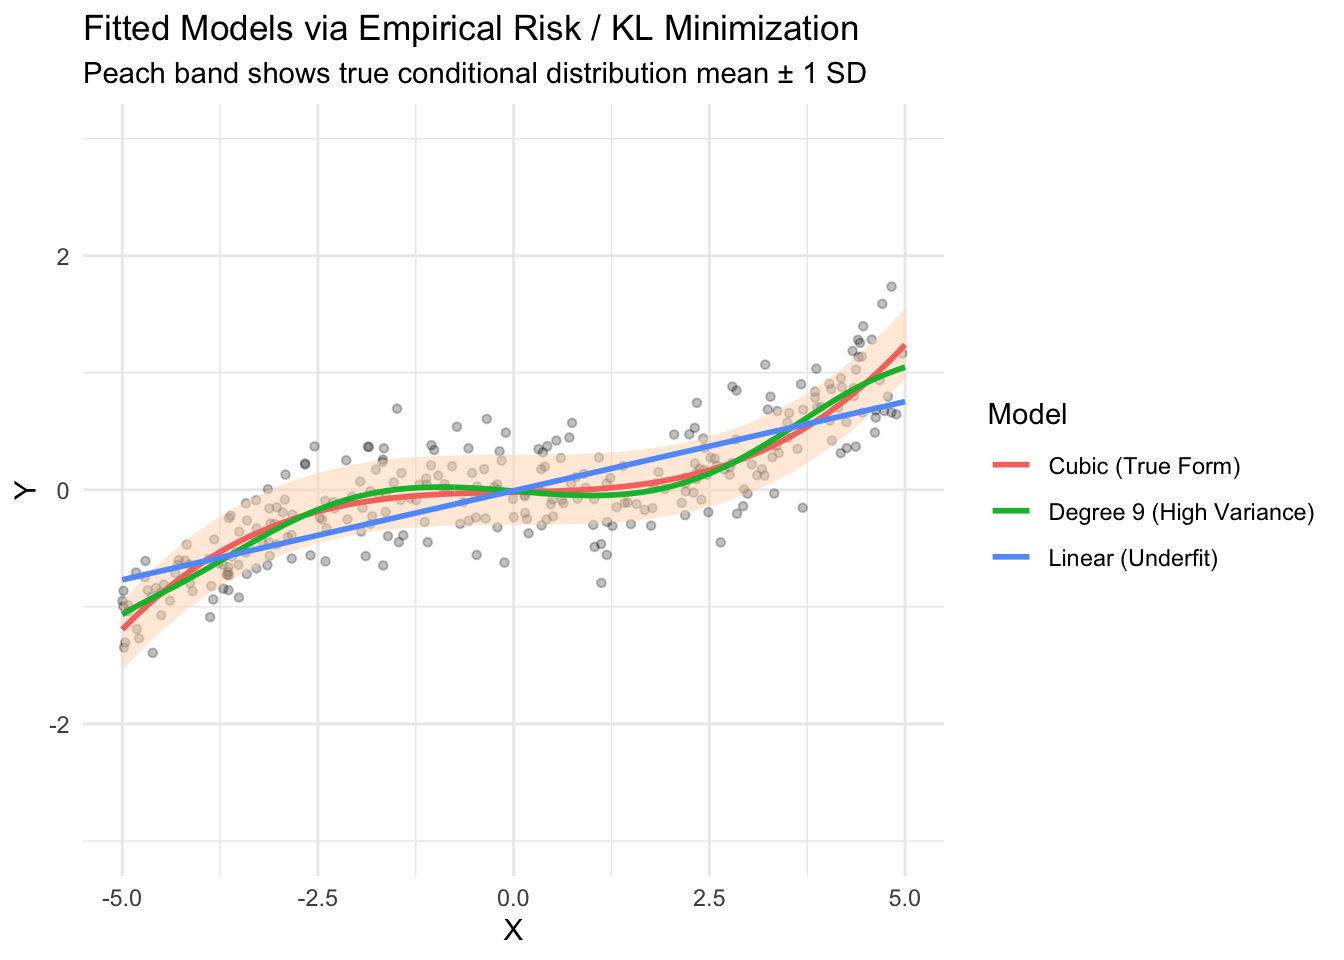
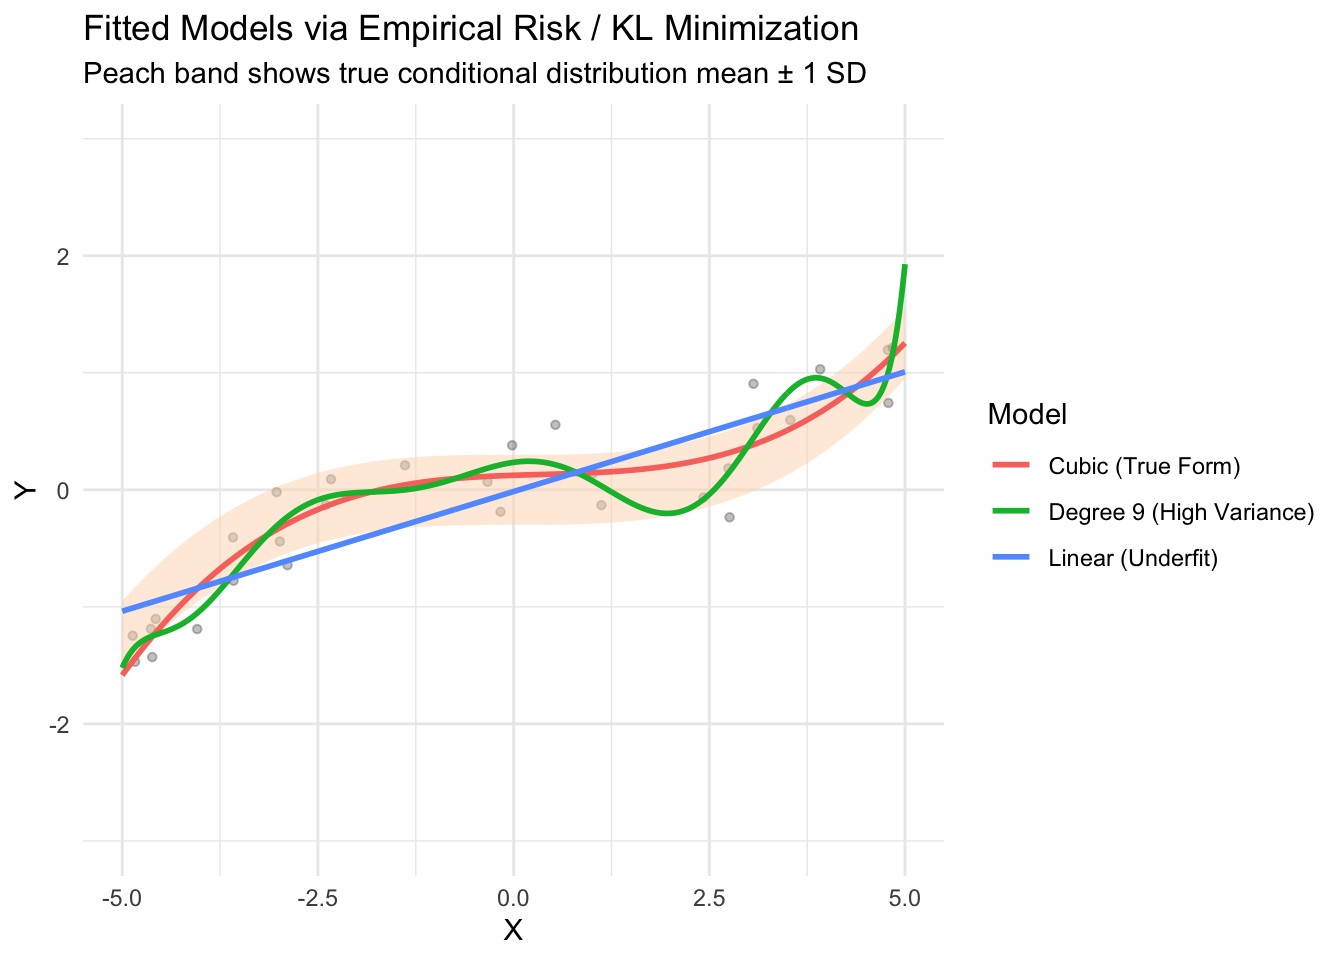
Add sources

Changed region(s): [[0.0625, 0.2812, 0.6875, 0.7188]]

diff --git a/min_dkl_nn.html b/min_dkl_nn.html
@@ -137,12 +137,15 @@ window.Quarto = {
 <div class="code-copy-outer-scaffold"><div class="sourceCode cell-code" id="cb1"><pre class="sourceCode r code-with-copy"><code class="sourceCode r"><span id="cb1-1"><a href="#cb1-1" aria-hidden="true" tabindex="-1"></a><span class="fu">library</span>(tidyverse)</span>
 <span id="cb1-2"><a href="#cb1-2" aria-hidden="true" tabindex="-1"></a><span class="fu">library</span>(ggformula)</span>
 <span id="cb1-3"><a href="#cb1-3" aria-hidden="true" tabindex="-1"></a></span>
-<span id="cb1-4"><a href="#cb1-4" aria-hidden="true" tabindex="-1"></a><span class="fu">set.seed</span>(<span class="dv">42</span>)</span></code></pre></div><button title="Copy to Clipboard" class="code-copy-button"><i class="bi"></i></button></div>
+<span id="cb1-4"><a href="#cb1-4" aria-hidden="true" tabindex="-1"></a><span class="fu">set.seed</span>(<span class="dv">666</span>)</span></code></pre></div><button title="Copy to Clipboard" class="code-copy-button"><i class="bi"></i></button></div>
 </div>
 <section id="sources" class="level2">
 <h2 class="anchored" data-anchor-id="sources">Sources</h2>
-<p>https://youtu.be/JGDAZ4joUX8</p>
-<p>https://doi.org/10.48550/arXiv.2011.08711</p>
+<ul>
+<li><p><a href="https://youtu.be/JGDAZ4joUX8" class="uri">https://youtu.be/JGDAZ4joUX8</a></p></li>
+<li><p><a href="https://youtu.be/OAHsR02dUc0" class="uri">https://youtu.be/OAHsR02dUc0</a></p></li>
+<li><p><a href="https://doi.org/10.48550/arXiv.2011.08711" class="uri">https://doi.org/10.48550/arXiv.2011.08711</a></p></li>
+</ul>
 </section>
 <section id="simulating-the-true-data-generating-process" class="level2">
 <h2 class="anchored" data-anchor-id="simulating-the-true-data-generating-process">Simulating the True Data Generating Process</h2>
@@ -151,7 +154,7 @@ window.Quarto = {
 <p>Note that the variance is <span class="math inline">\(\sigma^2 = 0.09\)</span>, which corresponds to a standard deviation of <span class="math inline">\(\sigma = \sqrt{0.09} = 0.3\)</span>.</p>
 <div class="cell">
 <div class="code-copy-outer-scaffold"><div class="sourceCode cell-code" id="cb2"><pre class="sourceCode r code-with-copy"><code class="sourceCode r"><span id="cb2-1"><a href="#cb2-1" aria-hidden="true" tabindex="-1"></a><span class="co"># Number of samples</span></span>
-<span id="cb2-2"><a href="#cb2-2" aria-hidden="true" tabindex="-1"></a>n <span class="ot">&lt;-</span> <span class="dv">300</span></span>
+<span id="cb2-2"><a href="#cb2-2" aria-hidden="true" tabindex="-1"></a>n <span class="ot">&lt;-</span> <span class="dv">30</span></span>
 <span id="cb2-3"><a href="#cb2-3" aria-hidden="true" tabindex="-1"></a></span>
 <span id="cb2-4"><a href="#cb2-4" aria-hidden="true" tabindex="-1"></a><span class="co"># True DGP parameters</span></span>
 <span id="cb2-5"><a href="#cb2-5" aria-hidden="true" tabindex="-1"></a>sim_data <span class="ot">&lt;-</span> <span class="fu">tibble</span>(</span>
@@ -174,7 +177,7 @@ window.Quarto = {
 <span id="cb2-22"><a href="#cb2-22" aria-hidden="true" tabindex="-1"></a><span class="fu">gf_point</span>(y <span class="sc">~</span> x, <span class="at">data =</span> sim_data, <span class="at">alpha =</span> <span class="fl">0.4</span>, <span class="at">size =</span> <span class="fl">1.5</span>) <span class="sc">|&gt;</span></span>
 <span id="cb2-23"><a href="#cb2-23" aria-hidden="true" tabindex="-1"></a>  <span class="fu">gf_ribbon</span>(lower <span class="sc">+</span> upper <span class="sc">~</span> x, <span class="at">data =</span> true_grid, <span class="at">fill =</span> <span class="st">"peachpuff"</span>, <span class="at">alpha =</span> <span class="fl">0.6</span>, <span class="at">inherit =</span> <span class="cn">FALSE</span>) <span class="sc">|&gt;</span></span>
 <span id="cb2-24"><a href="#cb2-24" aria-hidden="true" tabindex="-1"></a>  <span class="fu">gf_line</span>(mu_true <span class="sc">~</span> x, <span class="at">data =</span> true_grid, <span class="at">color =</span> <span class="st">"darkorange"</span>, <span class="at">linetype =</span> <span class="st">"dashed"</span>, <span class="at">linewidth =</span> <span class="dv">1</span>, <span class="at">inherit =</span> <span class="cn">FALSE</span>) <span class="sc">|&gt;</span></span>
-<span id="cb2-25"><a href="#cb2-25" aria-hidden="true" tabindex="-1"></a>  <span class="fu">gf_lims</span>(<span class="at">y =</span> <span class="fu">c</span>(<span class="sc">-</span><span class="dv">3</span>, <span class="dv">3</span>), <span class="at">x =</span> <span class="fu">c</span>(<span class="sc">-</span><span class="dv">5</span>, <span class="dv">5</span>)) <span class="sc">|&gt;</span></span>
+<span id="cb2-25"><a href="#cb2-25" aria-hidden="true" tabindex="-1"></a>  <span class="fu">gf_lims</span>(<span class="at">y =</span> <span class="fu">c</span>(<span class="sc">-</span><span class="dv">3</span>, <span class="dv">3</span>), <span class="at">x =</span> <span class="fu">c</span>(<span class="sc">-</span><span class="dv">6</span>, <span class="dv">6</span>)) <span class="sc">|&gt;</span></span>
 <span id="cb2-26"><a href="#cb2-26" aria-hidden="true" tabindex="-1"></a>  <span class="fu">gf_labs</span>(</span>
 <span id="cb2-27"><a href="#cb2-27" aria-hidden="true" tabindex="-1"></a>    <span class="at">title =</span> <span class="st">"True Data Distribution &amp; Sampled Observations"</span>,</span>
 <span id="cb2-28"><a href="#cb2-28" aria-hidden="true" tabindex="-1"></a>    <span class="at">x =</span> <span class="st">"X"</span>,</span>
@@ -304,15 +307,15 @@ window.Quarto = {
 <tbody>
 <tr class="odd">
 <td style="text-align: left;">Linear</td>
-<td style="text-align: right;">0.2006</td>
+<td style="text-align: right;">0.3405</td>
 </tr>
 <tr class="even">
 <td style="text-align: left;">Cubic</td>
-<td style="text-align: right;">0.0024</td>
+<td style="text-align: right;">0.0841</td>
 </tr>
 <tr class="odd">
 <td style="text-align: left;">Deg9</td>
-<td style="text-align: right;">0.0196</td>
+<td style="text-align: right;">0.2550</td>
 </tr>
 </tbody>
 </table>
